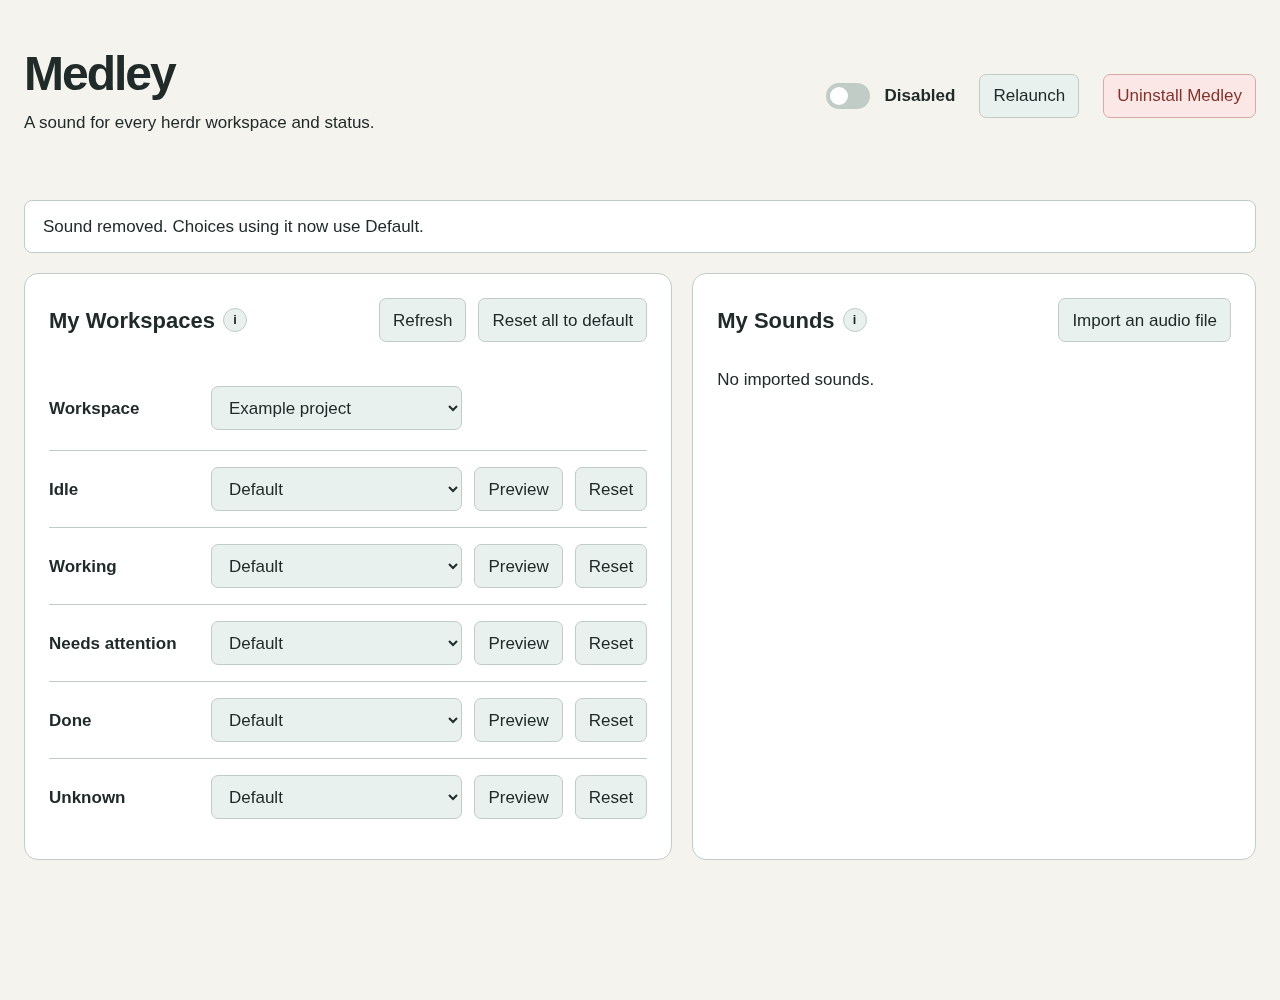
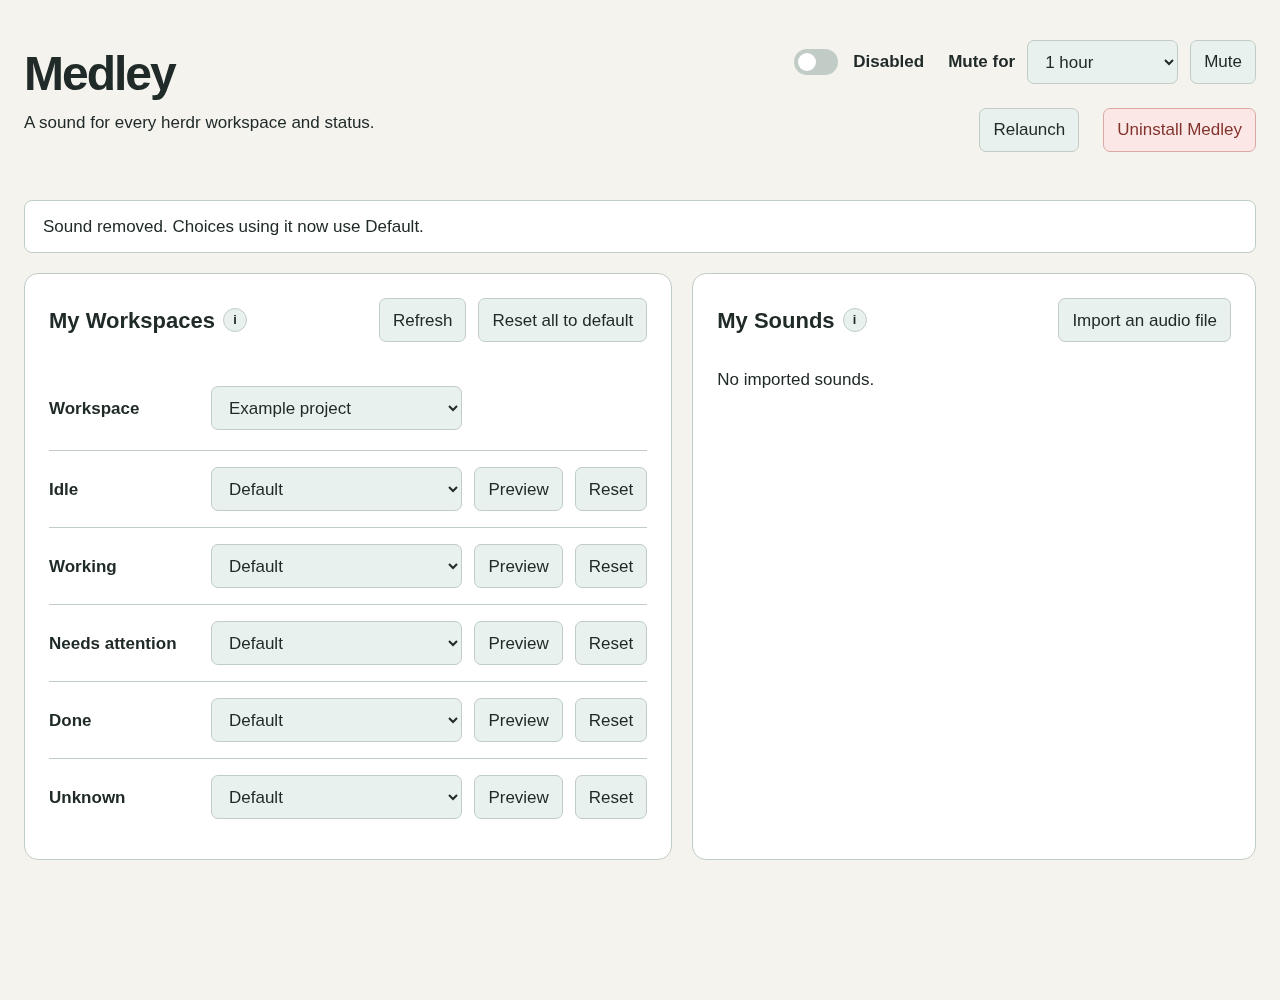
Point an out-of-date settings tab at Relaunch
A settings tab served by a server started before an update got 404 for the new mute routes, and
its message said to reopen Medley through herdr, which only reopens that same server on its port.
It now says to press Relaunch, which restarts the server on the installed code. The browser test
counts the new Mute button, mutes and unmutes through the page, follows the new keyboard order and
retakes the three screenshots with the mute controls.

Claude-Session: https://claude.ai/code/session_01AEwKf6kJrn6Yo4s5eEPhZt

Changed region(s): [[0.875, 0.031, 0.9688, 0.155], [0.75, 0.062, 0.875, 0.155], [0.625, 0.031, 0.75, 0.124]]

diff --git a/assets/app.js b/assets/app.js
@@ -7,7 +7,7 @@ let model, savedRules;
 async function request(path, data) {
   const response = await fetch(path, {method: data === undefined ? 'GET' : 'POST', headers: {'X-Medley-Token': token, 'Content-Type': 'application/json'}, body: data === undefined ? undefined : JSON.stringify(data)});
   const result = await response.json();
-  if (response.status === 404) throw new Error('This settings tab uses an older Medley server. Reopen Medley with herdr plugin action invoke medley.settings and use the new tab.');
+  if (response.status === 404) throw new Error('This settings tab talks to an older Medley server that lacks this action. Press Relaunch to restart it on the installed version, then try again.');
   if (!response.ok) throw new Error(result.error || 'The request failed. Try again.');
   return result;
 }
